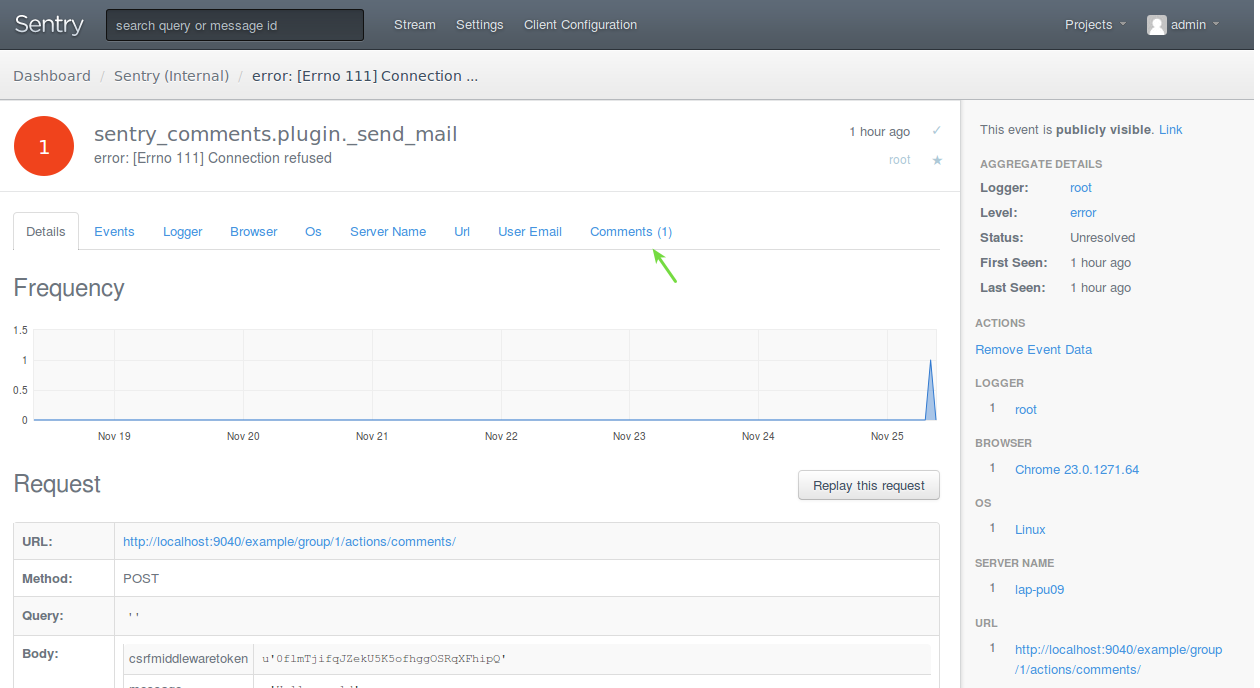
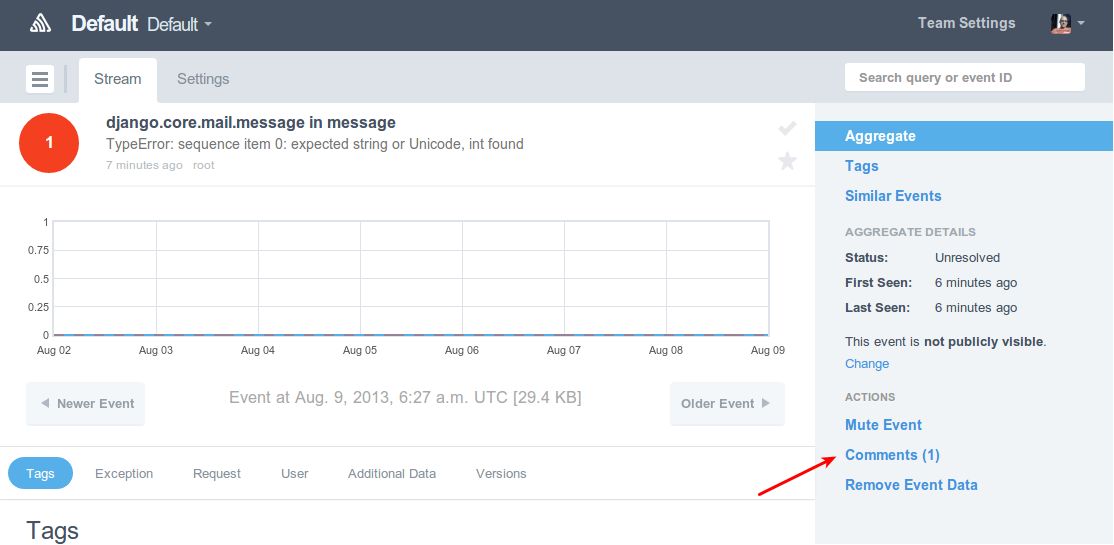
Update documentation.

diff --git a/docs/index.rst b/docs/index.rst
@@ -8,7 +8,7 @@ Welcome to sentry-comments's documentation!
 
 sentry-comments is an extension for Sentry to add comments to events.
 
-Comments show up within a new panel on the event page:
+Comments show up as a new action on the event page:
 
 .. image:: img/event.png
    :width: 90%
